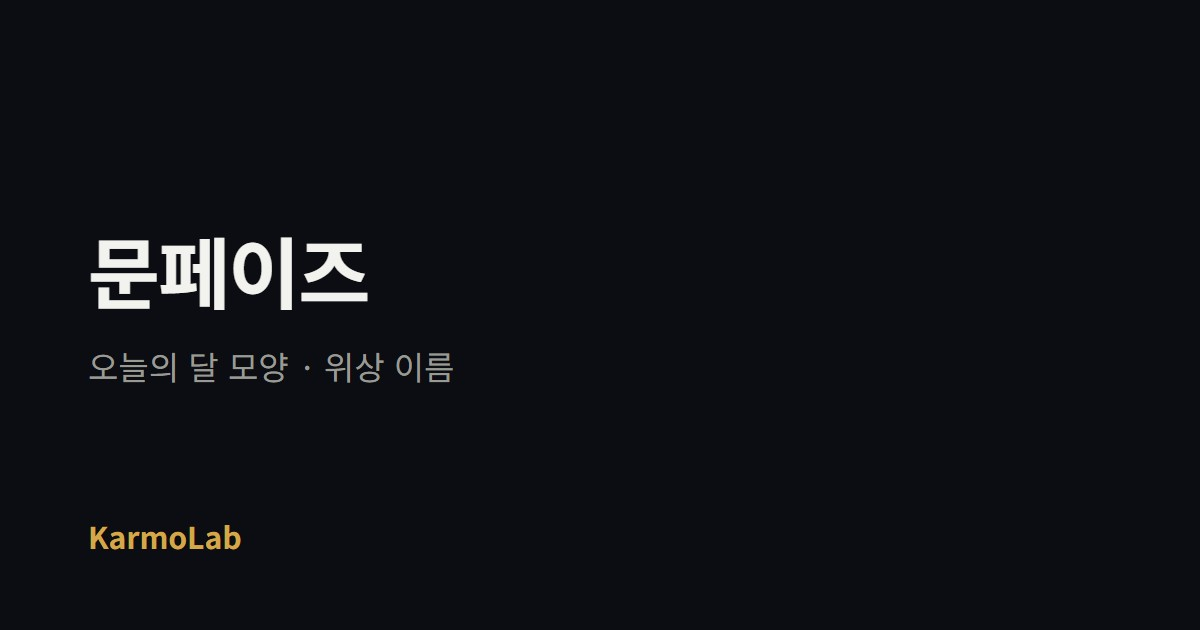
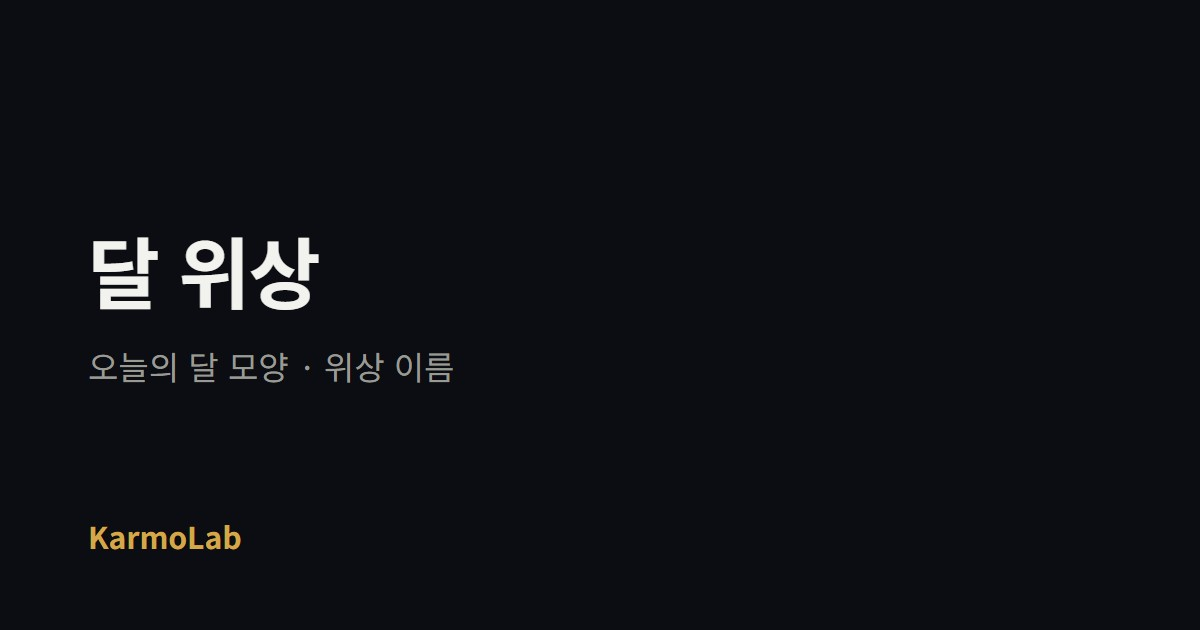
feat(karmolab): 도구 셋의 이름을 사람들이 실제로 치는 말로 바꿨다 (KL-089)
검색으로 도구를 만나게 하려면 이름이 찾는 말과 같아야 한다.

- 문페이즈 → 달 위상 (한국에서 「문페이즈」로 치는 사람은 거의 없다)
- 비율 계산기 → 화면 비율 계산기 (16:9 같은 것을 다루니 「화면」이 있어야 걸린다)
- 뽑기 → 랜덤 뽑기 (「뽑기」만으로는 너무 넓다)

이름은 목록·페이지 제목·공유 카드가 모두 같은 곳을 보므로 카드도 함께 다시 그렸다.

검증: 도구 위젯 검사 87개 통과(이름이 두 곳에서 갈라지면 여기서 걸린다) · 카드 3장만 재렌더.

Changed region(s): [[0.0617, 0.3619, 0.3083, 0.5127]]

diff --git a/apps/karmolab/src/widgets-lazy-meta.ts b/apps/karmolab/src/widgets-lazy-meta.ts
@@ -500,7 +500,7 @@ window.KARMOLAB_LAZY_META = [
   },
   {
     id: 'draw',
-    title: '뽑기',
+    title: '랜덤 뽑기',
     category: 'tool',
     desc: '로또 번호·사다리타기·추첨과 팀 나누기를 한 곳에서',
     layout: 'wide',
@@ -759,7 +759,7 @@ window.KARMOLAB_LAZY_META = [
     id: 'aspect',
     hidden: true, // 「calc」 위젯의 탭으로 합쳐짐 — 검색 유입 주소는 유지
     bundle: 'calc', // 이 도구를 부르면 묶음의 이 탭으로 간다
-    title: '비율 계산기',
+    title: '화면 비율 계산기',
     category: 'tool',
     desc: '가로·세로 비율을 유지한 채 크기를 계산합니다. 화면비 목록과 여백 계산 포함',
     layout: 'form',
@@ -1117,7 +1117,7 @@ window.KARMOLAB_LAZY_META = [
   { id: 'fontgacha', title: '폰트가챠', category: 'play', desc: '가챠로 폰트를 바꿉니다', hidden: true, layout: 'form', icon: '', lazyScriptPaths: ['font'] },
   { id: 'hacker', title: '해커', category: 'play', desc: '키보드를 연타해 해커 느낌의 텍스트를 출력합니다', hidden: true, layout: 'form', icon: '', lazyScriptPaths: ['hacker'] },
   { id: 'hourglass', title: '모래시계', category: 'tool', desc: '모래시계 타이머를 실행합니다', hidden: true, layout: 'form', icon: '', lazyScriptPaths: ['hourglass'] },
-  { id: 'moon', title: '문페이즈', category: 'tool', desc: '오늘의 달 위상을 확인합니다', hidden: true, layout: 'form', icon: '', lazyScriptPaths: ['moon'] },
+  { id: 'moon', title: '달 위상', category: 'tool', desc: '오늘의 달 위상을 확인합니다', hidden: true, layout: 'form', icon: '', lazyScriptPaths: ['moon'] },
   { id: 'news', title: '뉴스', category: 'play', desc: '가짜 뉴스 헤드라인을 생성합니다', hidden: true, layout: 'form', icon: '', lazyScriptPaths: ['news'] },
   { id: 'particle', title: '파티클', category: 'play', desc: '마우스로 파티클을 움직이고 클릭으로 폭발시킵니다', hidden: true, layout: 'form', icon: '', lazyScriptPaths: ['particle'] },
   { id: 'password', title: '비번', category: 'tool', desc: '4자리 비밀번호를 힌트 보며 맞히는 놀이', hidden: true, layout: 'form', icon: '', lazyScriptPaths: ['password'] },

diff --git a/apps/karmolab/src/widgets/tools/aspect.ts b/apps/karmolab/src/widgets/tools/aspect.ts
@@ -21,7 +21,7 @@
 
   Toolbox.register({
     id: 'aspect',
-    title: '비율 계산기',
+    title: '화면 비율 계산기',
     category: 'tool',
     desc: '가로·세로 비율을 유지한 채 크기를 계산합니다. 화면비 목록과 여백 계산 포함',
     layout: 'form',

diff --git a/apps/karmolab/src/widgets/tools/draw.ts b/apps/karmolab/src/widgets/tools/draw.ts
@@ -14,7 +14,7 @@
 
   Toolbox.register({
     id: 'draw',
-    title: '뽑기',
+    title: '랜덤 뽑기',
     category: 'tool',
     desc: '로또 번호·사다리타기·추첨과 팀 나누기를 한 곳에서',
     layout: 'wide',

diff --git a/apps/karmolab/src/widgets/moon.ts b/apps/karmolab/src/widgets/moon.ts
@@ -1,7 +1,7 @@
 (function (): void {
   Toolbox.register({
     id: 'moon',
-    title: '문페이즈',
+    title: '달 위상',
     category: 'tool',
     desc: '오늘의 달 위상을 확인합니다',
     layout: 'form',
